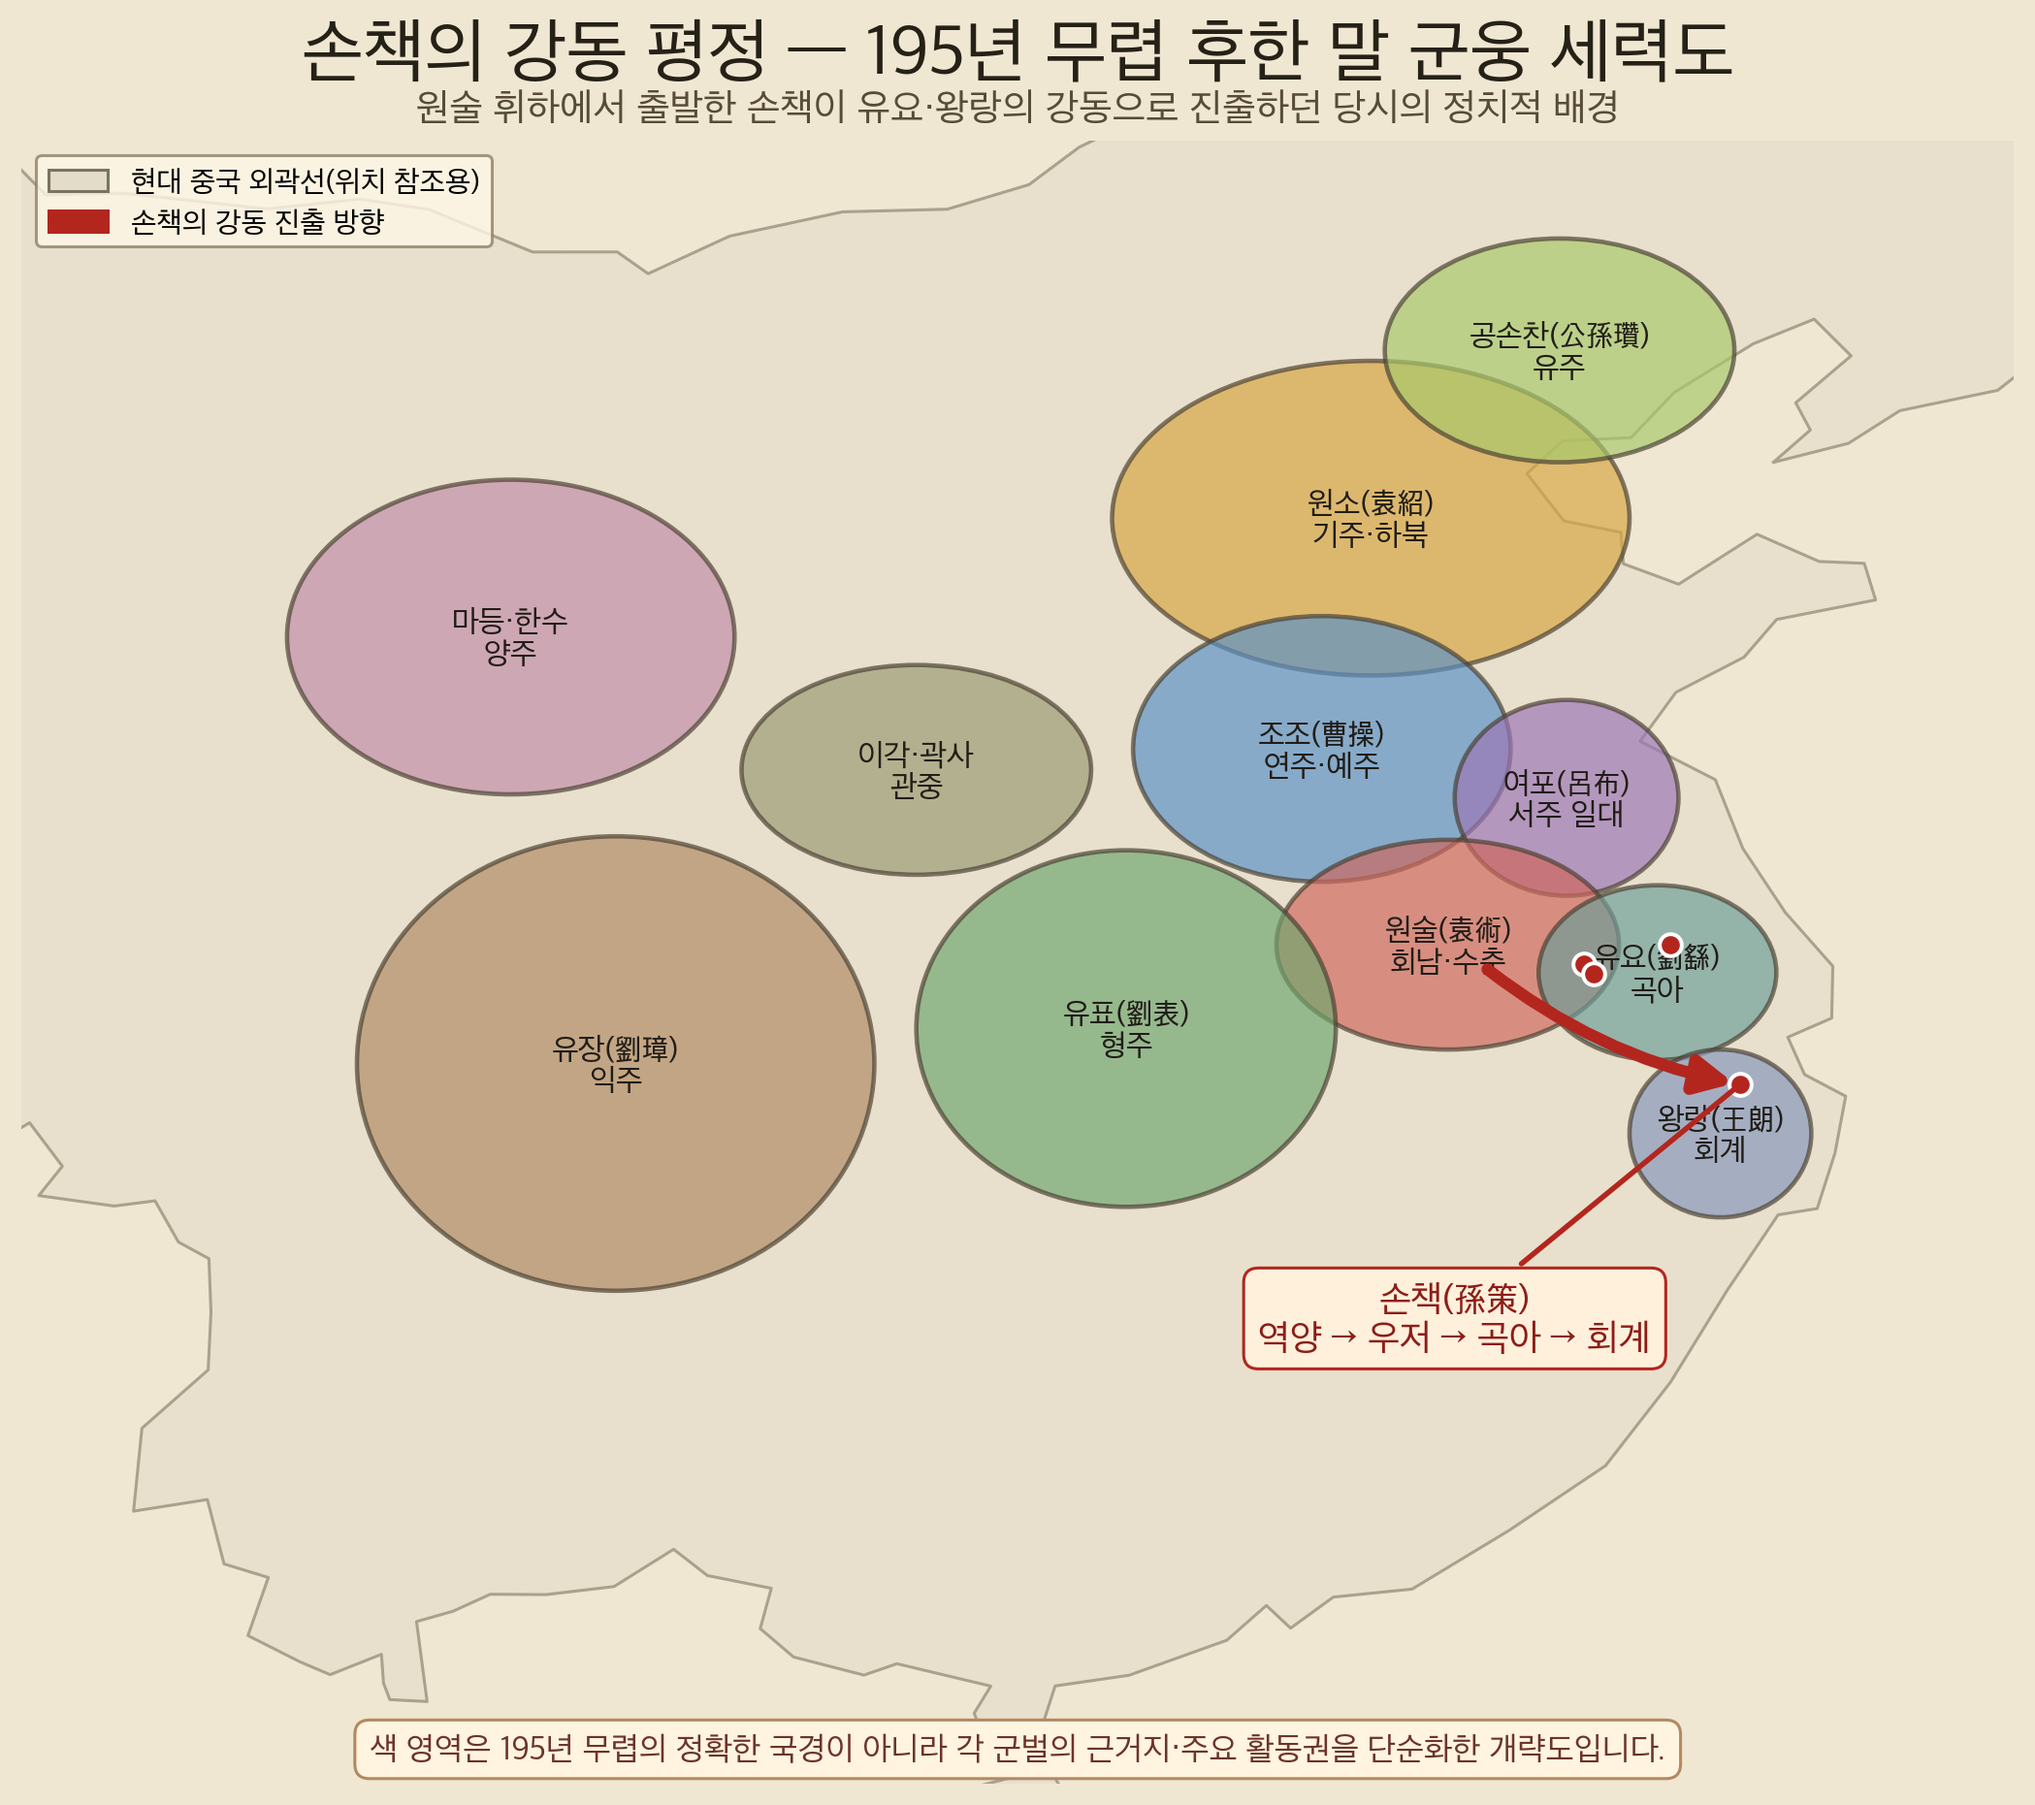
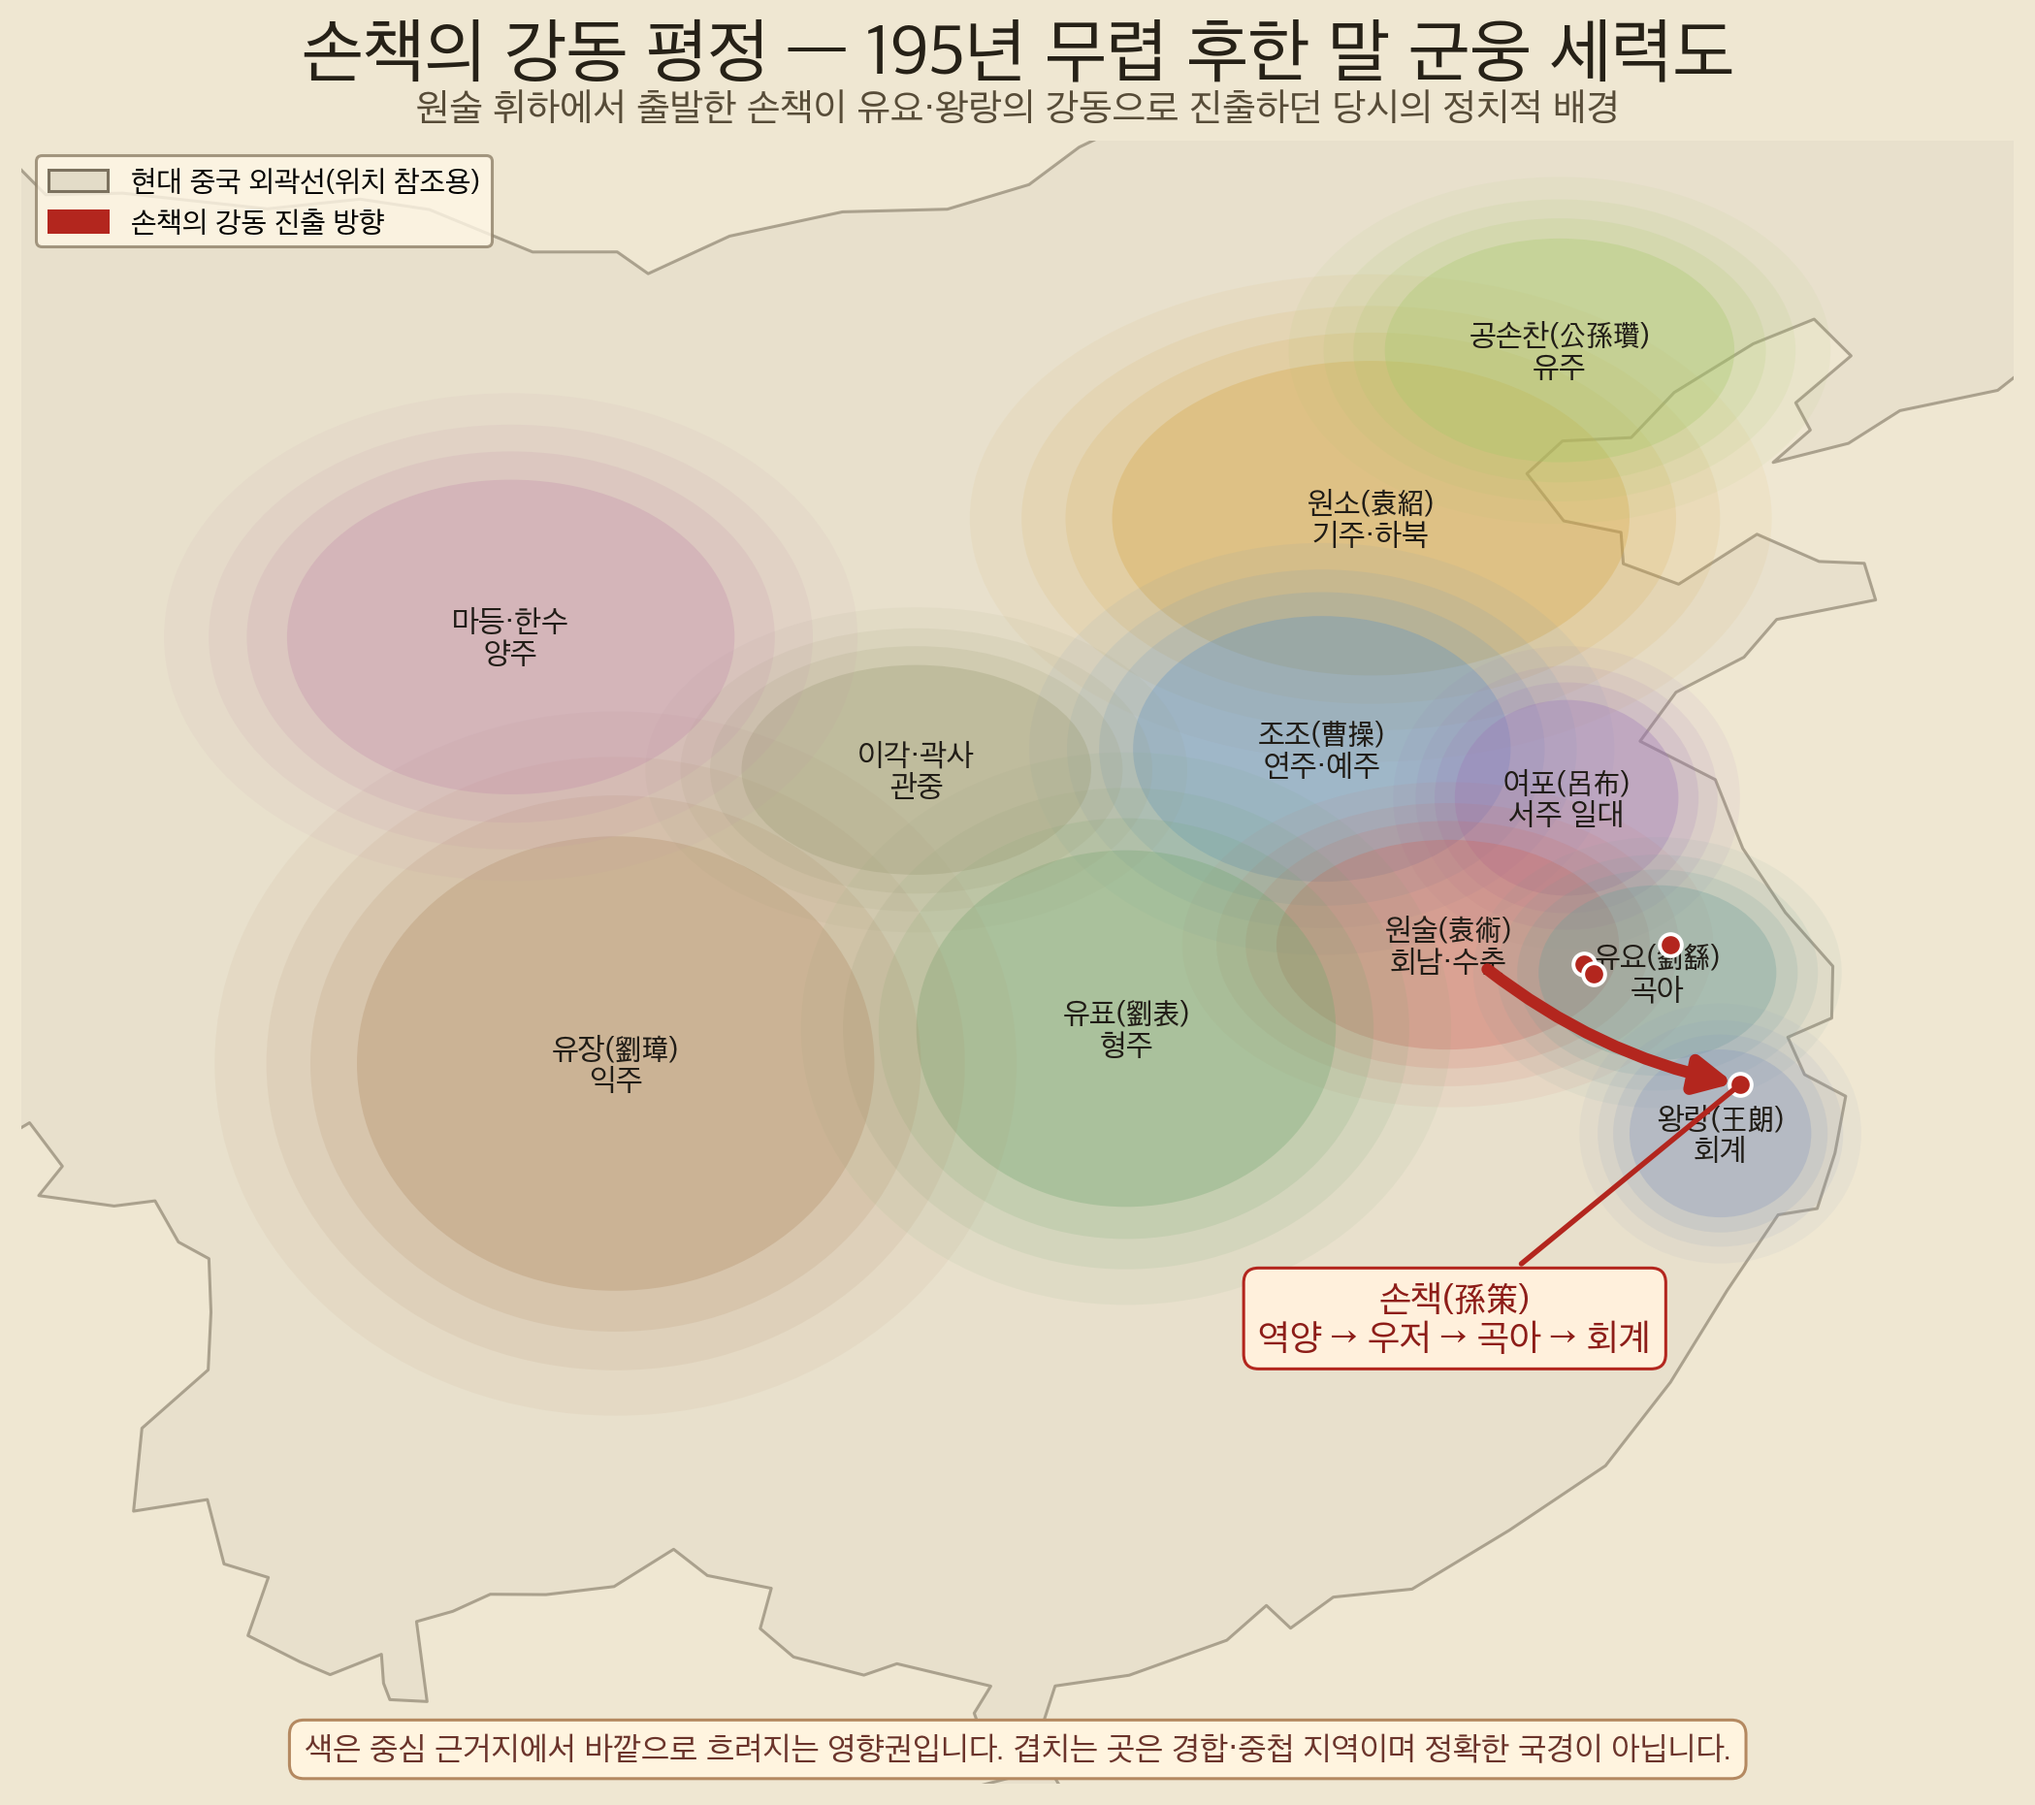
Improve era maps and commentary layout

Changed region(s): [[0.1239, 0.0935, 0.8985, 0.748], [0.1549, 0.935, 0.8675, 0.9973]]

diff --git a/손자병법/make_jiudi_11_codex_maps.py b/손자병법/make_jiudi_11_codex_maps.py
@@ -223,7 +223,15 @@ def plot_sun_ce_warlord_map():
         ("왕랑(王朗)\n회계", 120.3, 29.3, 2.6, 2.4, "#8597bd"),
     ]
     for name, x, y, w, h, color in powers:
-        ax.add_patch(Ellipse((x, y), w, h, facecolor=color, edgecolor="#4a4032", alpha=.68, linewidth=1.5, zorder=2))
+        # 군벌 세력은 행정 국경처럼 끊기지 않았으므로 중심에서 외곽으로
+        # 여러 겹이 흐려지게 하여 인접 영향권이 자연스럽게 겹치도록 한다.
+        for scale, alpha in ((1.55, .07), (1.35, .10), (1.18, .15), (1.0, .30)):
+            ax.add_patch(
+                Ellipse(
+                    (x, y), w * scale, h * scale,
+                    facecolor=color, edgecolor="none", alpha=alpha, zorder=2,
+                )
+            )
         ax.text(x, y, name, ha="center", va="center", fontsize=10.5, weight="bold", color="#211d17", zorder=3)
 
     # 손책의 출발과 강동 진출은 별도의 화살표로 표시한다.
@@ -263,7 +271,7 @@ def plot_sun_ce_warlord_map():
     )
     ax.text(
         .5, .012,
-        "색 영역은 195년 무렵의 정확한 국경이 아니라 각 군벌의 근거지·주요 활동권을 단순화한 개략도입니다.",
+        "색은 중심 근거지에서 바깥으로 흐려지는 영향권입니다. 겹치는 곳은 경합·중첩 지역이며 정확한 국경이 아닙니다.",
         transform=ax.transAxes, ha="center", va="bottom", fontsize=11, color="#6b342b",
         bbox=dict(boxstyle="round,pad=.45", facecolor="#fff4df", edgecolor="#b48961"),
     )
@@ -271,16 +279,84 @@ def plot_sun_ce_warlord_map():
     plt.close(fig)
 
 
-def country_maps():
-    plot_country(
-        "USA",
-        "셔먼의 바다로의 진군 — 미국 내 위치",
-        "조지아주 애틀랜타에서 대서양 연안 사바나까지, 약 460km의 전역",
-        [("애틀랜타", -84.3880, 33.7490), ("사바나", -81.0998, 32.0809)],
-        "#c53f35",
-        "sherman_march_country_map.png",
-        region_poly=[(-85.6, 35.0), (-80.8, 35.0), (-80.8, 30.4), (-82.1, 30.4), (-85.6, 31.0)],
+def plot_sherman_civil_war_map():
+    """1864년 남북전쟁의 진영과 셔먼·후드의 반대 방향 기동을 함께 보여준다."""
+    from bokeh.sampledata.us_states import data as state_data
+
+    confederacy = {"SC", "MS", "FL", "AL", "GA", "LA", "TX", "VA", "AR", "TN", "NC"}
+    border_union = {"DE", "MD", "KY", "MO", "WV"}
+    union = {
+        "ME", "NH", "VT", "MA", "RI", "CT", "NY", "NJ", "PA", "OH", "IN", "IL",
+        "IA", "WI", "MI", "MN", "KS", "CA", "OR", "NV",
+    }
+    colors = {"union": "#7aa8d2", "border": "#9fc58c", "confederacy": "#d77b70", "other": "#d9d2bf"}
+
+    fig, ax = plt.subplots(figsize=(15, 9), dpi=220)
+    fig.patch.set_facecolor("#efe7d2")
+    ax.set_facecolor("#dce7e2")
+    for abbr, state in state_data.items():
+        if abbr in {"AK", "HI"}:
+            continue
+        category = "confederacy" if abbr in confederacy else "border" if abbr in border_union else "union" if abbr in union else "other"
+        lons, lats = state["lons"], state["lats"]
+        ax.fill(lons, lats, facecolor=colors[category], edgecolor="#554c3d", linewidth=.7, alpha=.88, zorder=1)
+        clean_lon = [v for v in lons if v == v]
+        clean_lat = [v for v in lats if v == v]
+        if clean_lon and clean_lat and abbr not in {"RI", "DE", "MD", "NJ", "MA", "CT"}:
+            ax.text(sum(clean_lon) / len(clean_lon), sum(clean_lat) / len(clean_lat), abbr,
+                    ha="center", va="center", fontsize=7.5, color="#30291f", weight="bold", zorder=2)
+
+    # 셔먼은 조지아를 동서로 횡단하고, 후드는 반대 방향인 테네시로 북상했다.
+    atlanta = (-84.3880, 33.7490)
+    savannah = (-81.0998, 32.0809)
+    nashville = (-86.7816, 36.1627)
+    ax.add_patch(FancyArrowPatch(atlanta, savannah, arrowstyle="-|>", mutation_scale=24, linewidth=4.3,
+                                 color="#145da0", connectionstyle="arc3,rad=.16", zorder=6))
+    ax.add_patch(FancyArrowPatch(atlanta, nashville, arrowstyle="-|>", mutation_scale=24, linewidth=4.0,
+                                 color="#b3261e", connectionstyle="arc3,rad=-.14", zorder=6))
+    ax.scatter(
+        [atlanta[0], savannah[0], nashville[0]], [atlanta[1], savannah[1], nashville[1]],
+        s=70, c=["#f5c04a", "#145da0", "#b3261e"], edgecolors="white", linewidths=1.5, zorder=7,
     )
+    ax.annotate("애틀랜타(Atlanta)\n셔먼 출발·후드 이탈", atlanta, xytext=(-35, -42), textcoords="offset points",
+                fontsize=10.5, weight="bold", ha="center", color="#32291f")
+    ax.annotate("사바나(Savannah)\n셔먼의 목표", savannah, xytext=(20, -30), textcoords="offset points",
+                fontsize=10.5, weight="bold", ha="center", color="#145da0")
+    ax.annotate("내슈빌(Nashville)\n후드의 북상 목표", nashville, xytext=(-5, 24), textcoords="offset points",
+                fontsize=10.5, weight="bold", ha="center", color="#9b1c17")
+
+    ax.set_xlim(-101, -66)
+    ax.set_ylim(24, 49.5)
+    ax.set_aspect("equal")
+    ax.axis("off")
+    ax.set_title("셔먼의 바다로의 진군 — 1864년 미국 남북전쟁 세력도", fontsize=24, weight="bold", color="#262117", pad=24)
+    ax.text(
+        .5, 1.01,
+        "북부연방·남부연합·경계주와, 서로 반대 방향으로 움직인 셔먼·후드의 작전 선택",
+        transform=ax.transAxes, ha="center", va="bottom", fontsize=13, color="#574c38",
+    )
+    ax.legend(
+        handles=[
+            Patch(facecolor=colors["union"], edgecolor="#554c3d", label="북부연방(Union)"),
+            Patch(facecolor=colors["confederacy"], edgecolor="#554c3d", label="남부연합(Confederacy)"),
+            Patch(facecolor=colors["border"], edgecolor="#554c3d", label="경계주·연방 잔류(Border States)"),
+            Patch(facecolor="#145da0", edgecolor="#145da0", label="셔먼: 애틀랜타 → 사바나"),
+            Patch(facecolor="#b3261e", edgecolor="#b3261e", label="후드: 테네시 북상"),
+        ],
+        loc="upper left", frameon=True, facecolor="#fff7e6", edgecolor="#8e8068", fontsize=10,
+    )
+    ax.text(
+        .5, .012,
+        "색은 1861년의 주별 진영을 나타냅니다. 1864년 실제 군사 점령선은 주 경계와 달랐으며, 현재 주 경계선은 위치 참조용입니다.",
+        transform=ax.transAxes, ha="center", va="bottom", fontsize=10.5, color="#6b342b",
+        bbox=dict(boxstyle="round,pad=.45", facecolor="#fff4df", edgecolor="#b48961"),
+    )
+    fig.savefig(ROOT / "sherman_march_country_map.png", bbox_inches="tight", facecolor=fig.get_facecolor())
+    plt.close(fig)
+
+
+def country_maps():
+    plot_sherman_civil_war_map()
     plot_sun_ce_warlord_map()
 
 
